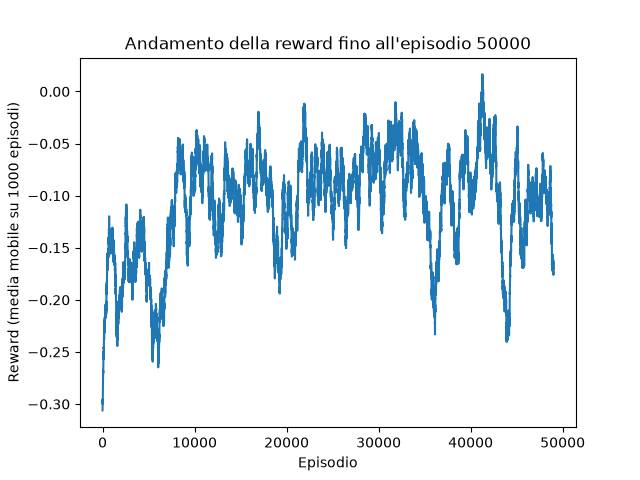
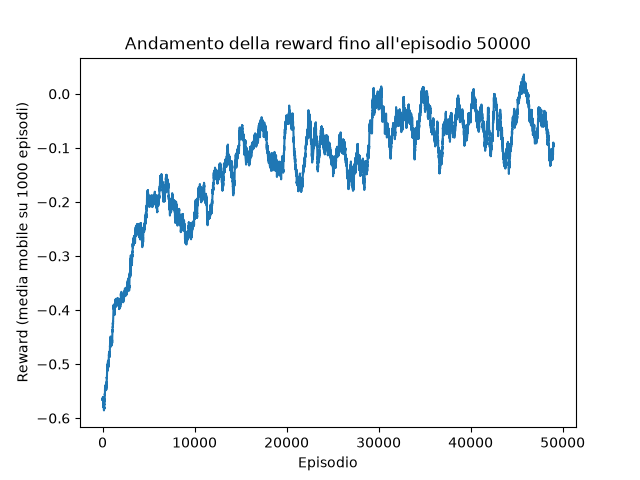
aggiunte modifiche

diff --git a/Minesweeper/LavoroDef/ESARSAms.py b/Minesweeper/LavoroDef/ESARSAms.py
@@ -2,7 +2,7 @@ import random
 import numpy as np
 import pandas as pd
 from collections import defaultdict
-rng = np.random.default_rng()
+rng = np.random.default_rng(42)
 import matplotlib.pyplot as plt
 
 '''----------funzioni ausiliarie----------'''
@@ -10,22 +10,27 @@ import matplotlib.pyplot as plt
 import ausiliarie as aux
 
 '''----------parametri dell'algoritmo E-SARSA----------'''
-alpha = 0.01
-epsilon = 0.1
-gamma = 0.9
+
 num_episodes = 100_000
+alpha = 0.01
+#epsilon = 0.1 # epsilon decrescente migliora la convergenza!
+epsilon0 = 0.1
+epsilon_min = 0.01
+decay_rate = 5 / num_episodes
+gamma = 0.9
 
 '''----------inizializzazione dell'ambiente----------'''
 
 from minesweeper_env import MinesweeperEnv
-Xenv = 8
-Yenv = 8
-bombe = 10
+Xenv = 4
+Yenv = 4
+bombe = 3
 ambiente = MinesweeperEnv(width = Xenv, height = Yenv, n_mines = bombe)
 
 '''----------conteggi----------'''
 
 totrew = np.zeros(num_episodes)
+vittorie = np.zeros(num_episodes)
 
 '''----------Matrice Q----------'''
 
@@ -37,10 +42,14 @@ Q = defaultdict(float)
 
 for e in range(num_episodes):
 
+    epsilon = epsilon_min + (epsilon0 - epsilon_min) * np.exp(-decay_rate * e)
+
     '''rappresentazione grafica dell'andamento dell'algoritmo ogni 10.000 episodi'''
     mostra = (e % 10000 == 0) or (e == num_episodes - 1)
-    if mostra:
-        sequenza = []
+
+    '''lista delle caselle visitate: utile per una stampa
+    in caso di vittoria e ogni 10.000 passi'''
+    sequenza = []
 
     '''in ogni episodio c'è un nuovo tabellone con
     le mine in posizioni casuali'''
@@ -50,22 +59,24 @@ for e in range(num_episodes):
     '''----------exploring start----------'''
 
     '''parto da una cella casuale sul tabellone'''
-    x0, y0 = random.randint(0,Xenv-1), random.randint(0,Yenv-1)
+    x0, y0 = rng.integers(0,Xenv), rng.integers(0,Yenv)
     '''esprimo le coordinate come indice lineare'''
     index0 = np.ravel_multi_index((x0,y0),(Xenv,Yenv))
 
     '''dizionario coordinate:valore'''
     listadict = aux.lista_dict(ambiente)
 
+    nascoste0 = aux.celle_nascoste(ambiente)
+    quantenascoste0 = len(nascoste0)
+
     '''features della cella in esame'''
-    features = aux.genera_features(ambiente, index0, listadict)
+    features = aux.genera_features(ambiente, index0, listadict, bombe/quantenascoste0)
 
     done = None
 
     _, reward, done = ambiente.step(index0)
     totrew[e] += reward
-    if mostra:
-        sequenza.append(ambiente.state[index0]['coord'])
+    sequenza.append(ambiente.state[index0]['coord'])
 
     index = None
 
@@ -82,14 +93,15 @@ for e in range(num_episodes):
         '''prendo la lista degli indici delle celle ancora nascoste DOPO l'aggiornamento
         della griglia a seguito di step'''
         nascoste = aux.celle_nascoste(ambiente)
+        quantenascoste = len(nascoste)
 
         '''Aggiorno il dizionario coordinate:valore a seguito di step'''
         proxlistadict = aux.lista_dict(ambiente)
 
         '''----------epsilon greedy----------'''
 
-        if random.random() <= epsilon:
-            index = random.choice(nascoste)
+        if rng.random() <= epsilon:
+            index = rng.choice(nascoste)
         else:
 
             '''creo una lista dei valori delle prossime celle (per il valore atteso)'''
@@ -97,7 +109,7 @@ for e in range(num_episodes):
             bestvalue = None
             indicebestvalue = None
             for i in nascoste:
-                proxfeat = aux.genera_features(ambiente, i, proxlistadict)
+                proxfeat = aux.genera_features(ambiente, i, proxlistadict, bombe/quantenascoste)
                 valorefeat = Q.get(proxfeat,0.0)
                 prossime.append(valorefeat)
                 if bestvalue is None or valorefeat > bestvalue:
@@ -117,13 +129,19 @@ for e in range(num_episodes):
         
         listadict = aux.lista_dict(ambiente)
 
+        nascoste = aux.celle_nascoste(ambiente)
+        quantenascoste = len(nascoste)
+
         '''features della cella in esame'''
-        features = aux.genera_features(ambiente, index, listadict)
+        features = aux.genera_features(ambiente, index, listadict, bombe/quantenascoste)
 
         _, reward, done = ambiente.step(index)
+
+        if reward == 1:
+             vittorie[e] = 1
+        
         totrew[e] += reward
-        if mostra:
-            sequenza.append(ambiente.state[index]['coord'])
+        sequenza.append(ambiente.state[index]['coord'])
 
 
         '''Iterazione epsilon-greedy'''
@@ -139,13 +157,14 @@ for e in range(num_episodes):
             '''prendo la lista degli indici delle celle ancora nascoste DOPO l'aggiornamento
             della griglia a seguito di step'''
             nascoste = aux.celle_nascoste(ambiente)
+            quantenascoste = len(nascoste)
 
             '''Aggiorno il dizionario coordinate:valore a seguito di step'''
             proxlistadict = aux.lista_dict(ambiente)
 
             '''epsilon greedy'''
-            if random.random() <= epsilon:
-                index = random.choice(nascoste)
+            if rng.random() <= epsilon:
+                index = rng.choice(nascoste)
             else:
 
                 '''creo una lista dei valori delle prossime celle (per il valore atteso)'''
@@ -153,7 +172,7 @@ for e in range(num_episodes):
                 bestvalue = None
                 indicebestvalue = None
                 for i in nascoste:
-                    proxfeat = aux.genera_features(ambiente, i, proxlistadict)
+                    proxfeat = aux.genera_features(ambiente, i, proxlistadict, bombe/quantenascoste)
                     valorefeat = Q.get(proxfeat,0.0)
                     prossime.append(valorefeat)
                     if bestvalue is None or valorefeat > bestvalue:
@@ -166,15 +185,23 @@ for e in range(num_episodes):
                 index = indicebestvalue
 
             # del proxlistadict (non libera memoria, anzi è potenzialmente dannoso)
-        
+    
+    '''aggiunto il dato sul winrate cumulativo e non solo la media su 1000 episodi'''
+    totwin = np.cumsum(vittorie[:e])
+    totepisodes = np.arange(1,e+1)
+    cumwinrate = totwin/totepisodes
+
     '''a fine episodio mostro la sequenza di caselle visitate'''
-    if mostra:
+    if mostra or reward == 1:
+        if reward == 1:
+            print ("VITTORIA!")
         print(f"episodio {e}: {sequenza}")
 
         if mostra and e > 0:
             '''comando che permette di calcolare la media 1000 episodi alla volta'''
             finestra = 1000
             media = np.convolve(totrew[:e], np.ones(finestra) / finestra, mode = 'valid')
+            winrate = np.convolve(vittorie[:e], np.ones(finestra) / finestra, mode='valid')
 
             plt.figure()
             plt.plot(media)
@@ -182,6 +209,24 @@ for e in range(num_episodes):
             plt.ylabel('Reward (media mobile su 1000 episodi)')
             plt.title(f'Andamento della reward fino all\'episodio {e}')
             plt.savefig(f'reward_ep{e}.png')
+            plt.close()
+
+            plt.figure()
+            plt.plot(winrate)
+            plt.xlabel('Episodio')
+            plt.ylabel('Tasso di vittoria (media mobile su 1000 episodi)')
+            plt.title(f'Tasso di vittoria fino all\'episodio {e}')
+            plt.ylim(0, 1)
+            plt.savefig(f'winrate_ep{e}.png')
+            plt.close()
+
+            plt.figure()
+            plt.plot(cumwinrate)
+            plt.xlabel('Episodio')
+            plt.ylabel('Tasso di vittoria cumulativo (vittorie / episodi giocati)')
+            plt.title(f'Tasso di vittoria cumulativo fino all\'episodio {e}')
+            plt.ylim(0, 1)
+            plt.savefig(f'winrate_cumulativo_ep{e}.png')
             plt.close()
 
 

diff --git a/Minesweeper/LavoroDef/ausiliarie.py b/Minesweeper/LavoroDef/ausiliarie.py
@@ -1,4 +1,5 @@
 from collections import defaultdict
+import numpy as np
 '''In questo file sono presenti alcune funzioni ausiliarie
 per far comunicare il main con l'ambiente e per facilitare
 l'utilizzo di Q come dizionario
@@ -54,7 +55,7 @@ def posizione (vicini):
         pos = "centrale"
     return pos
 
-def genera_features (ambiente, a, listadict):
+def genera_features (ambiente, a, listadict, proporzione):
     '''Questa funzione genera la tupla delle features in base
     ai valori vicini e alla posizione approssimativa sulla griglia
     (quindi non le coordinate esatte)'''
@@ -63,6 +64,18 @@ def genera_features (ambiente, a, listadict):
     coord = ambiente.state[a]['coord']
     #valori dei vicini:
     valvicini = valori_vicini(listadict,coord,ambiente.nrows, ambiente.ncols)
+
+    numerivicini = []
+    for i in valvicini:
+        if i != 'U':
+            numerivicini.append(i)
+
+    if len (numerivicini) > 0:
+        minvicini = min (numerivicini)
+        maxvicini = max (numerivicini)
+    else:
+        minvicini = 0
+        maxvicini = 0
 
     # popsizione sulla griglia:
     pos = posizione(valvicini)
@@ -90,8 +103,17 @@ def genera_features (ambiente, a, listadict):
     else:
         rischio = 1
 
-    '''fornisco le features come tupla dei tre valori calcolati'''
-    features = (nascoste, pos, rischio)
+    prop = None
+    '''valore indicativo della proporzione di bombe rimaste'''
+    if proporzione < 0.33:
+        prop = 'bassa'
+    elif 0.33 <= proporzione <= 0.66:
+        prop = 'media'
+    else:
+        prop = 'alta'
+
+    '''fornisco le features come tupla dei 6 valori calcolati'''
+    features = (nascoste, pos, rischio, prop, minvicini, maxvicini)
 
     '''features = defaultdict(float)
     features["nascoste"] = nascoste
